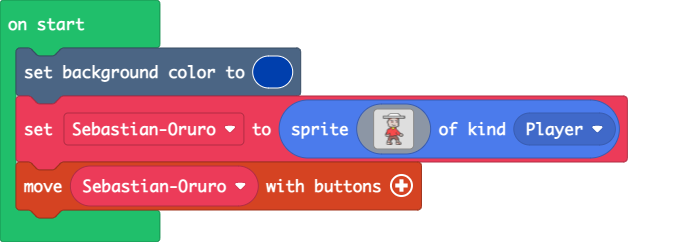
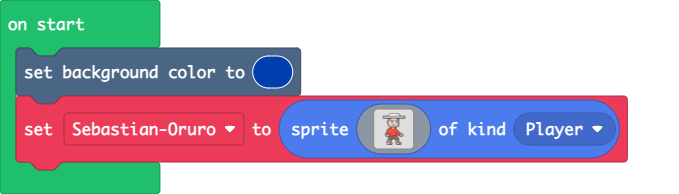
Update main.blocks, main.ts

diff --git a/main.ts b/main.ts
@@ -54,4 +54,3 @@ let SebastianOruro = sprites.create(img`
     ..........fddddeeef......fddddeedf........
     ...........fffffff........fffffff.........
     `, SpriteKind.Player)
-controller.moveSprite(SebastianOruro)
